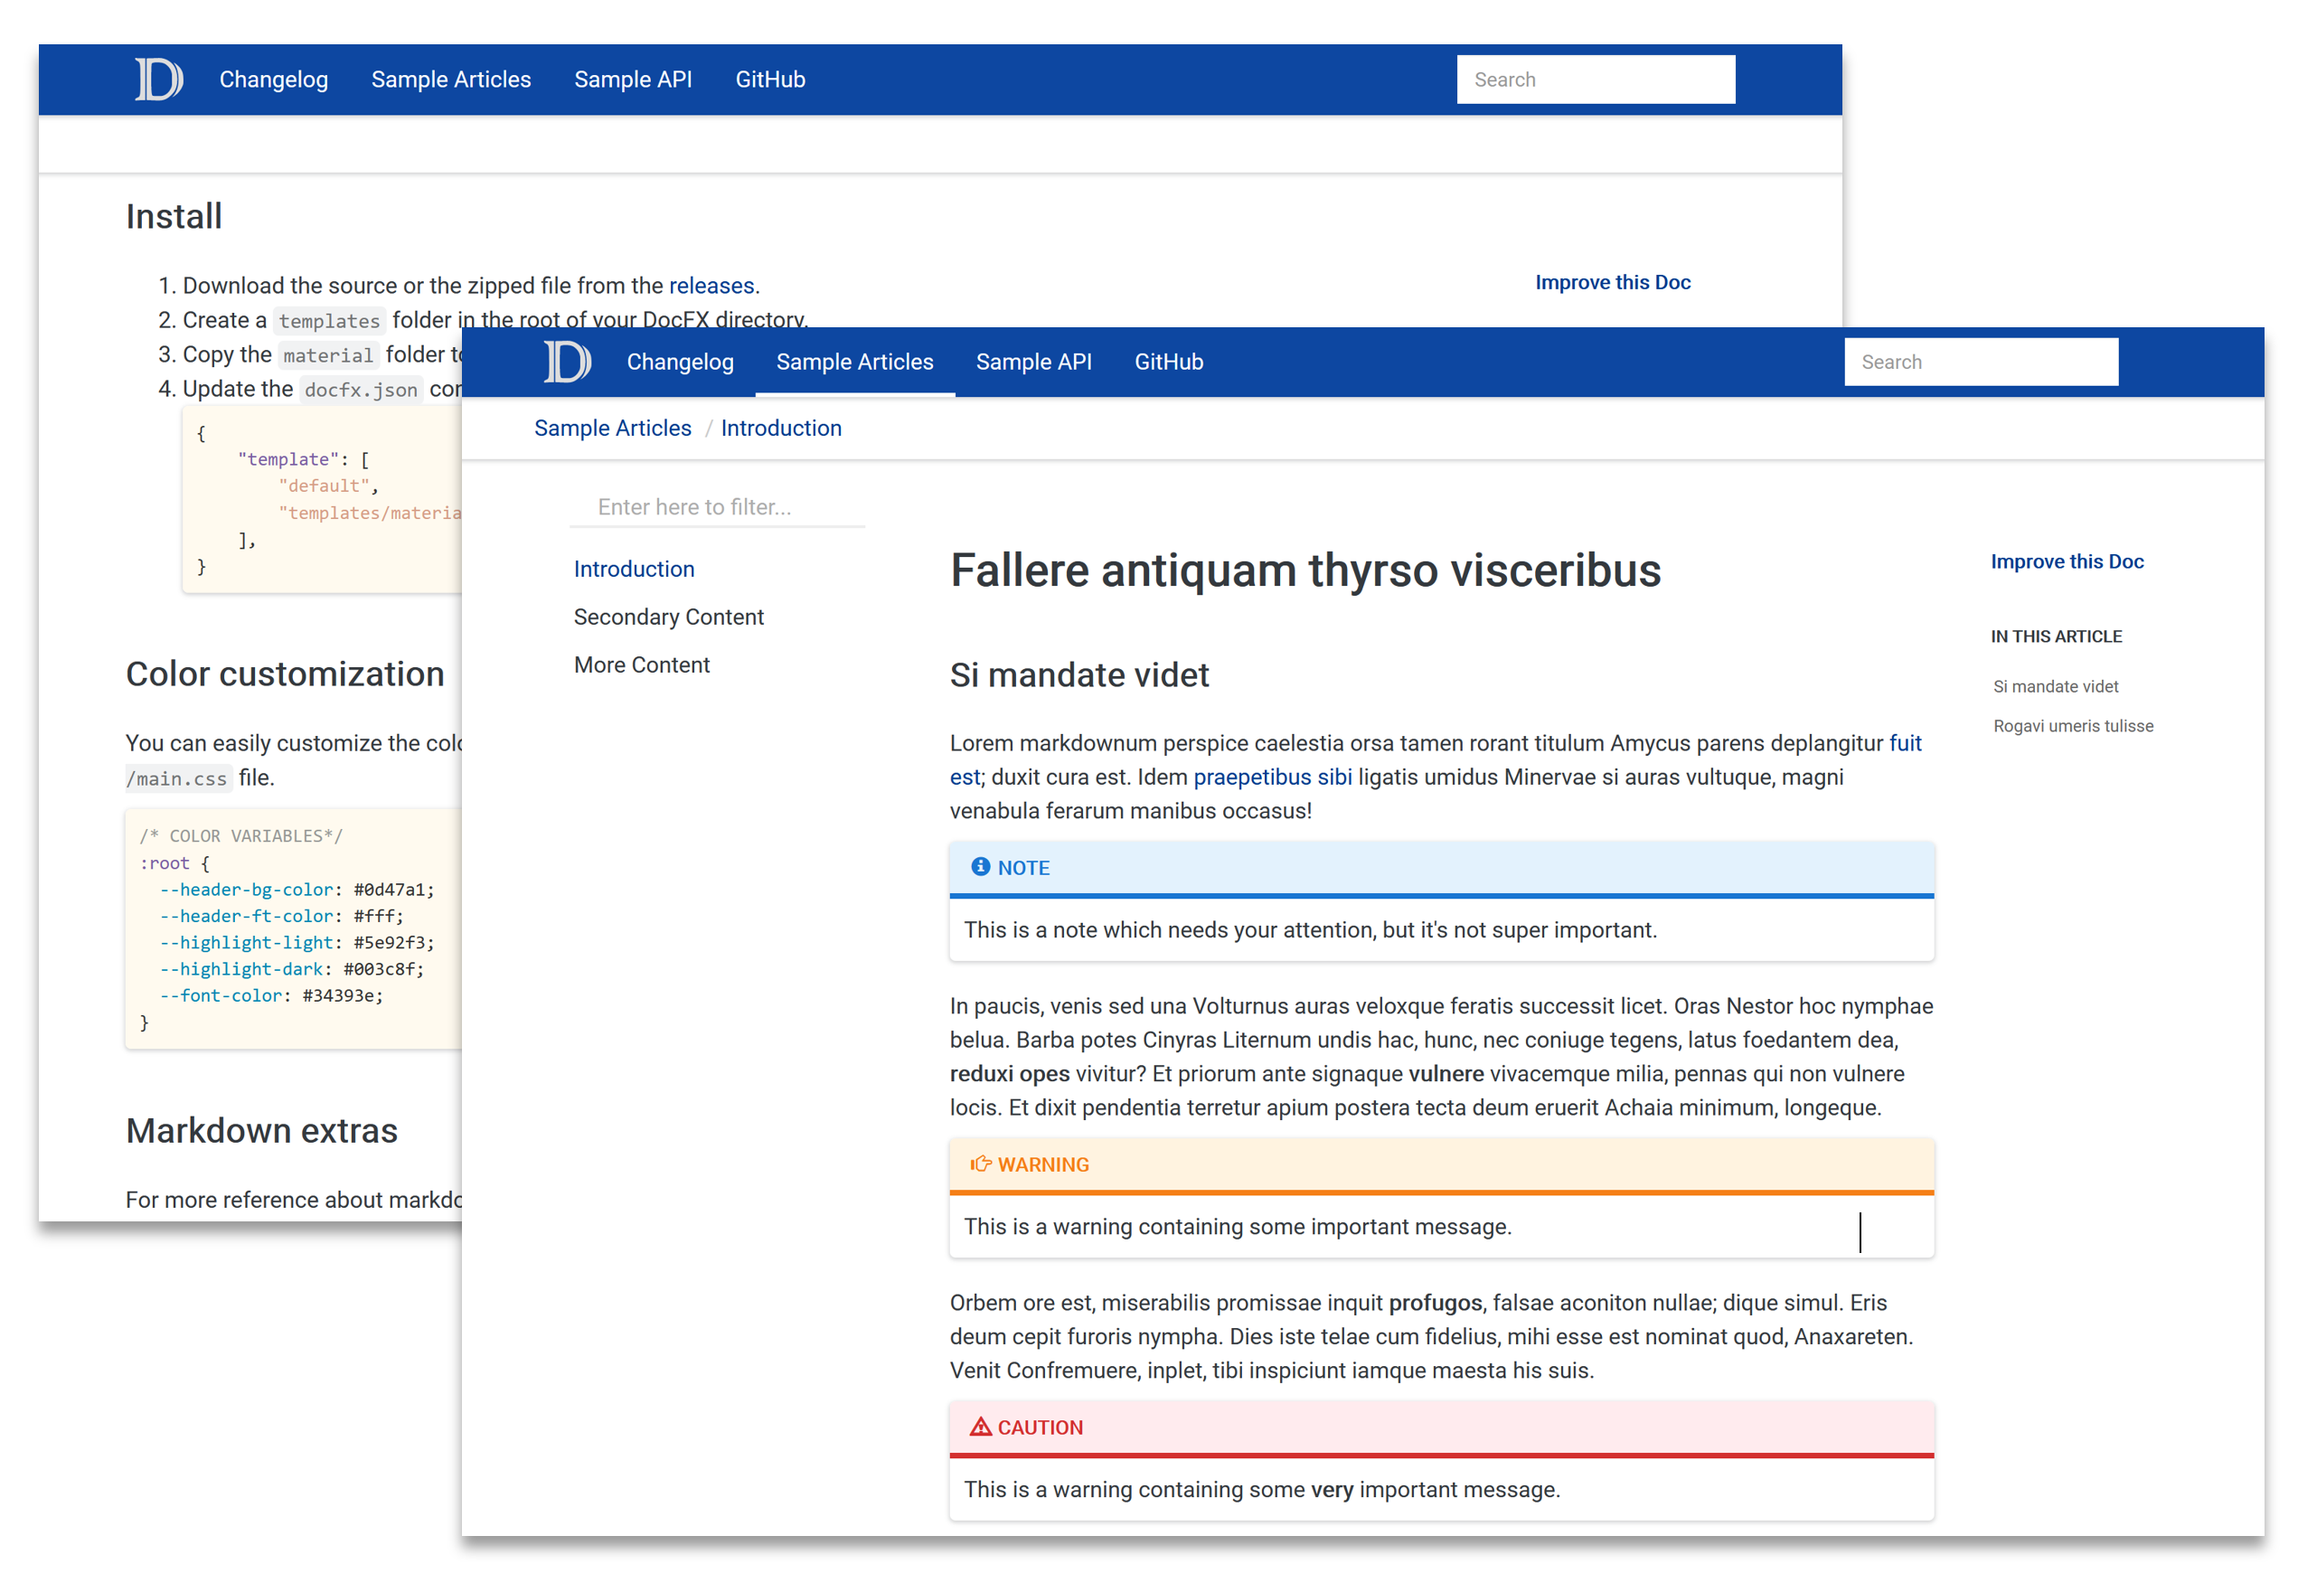
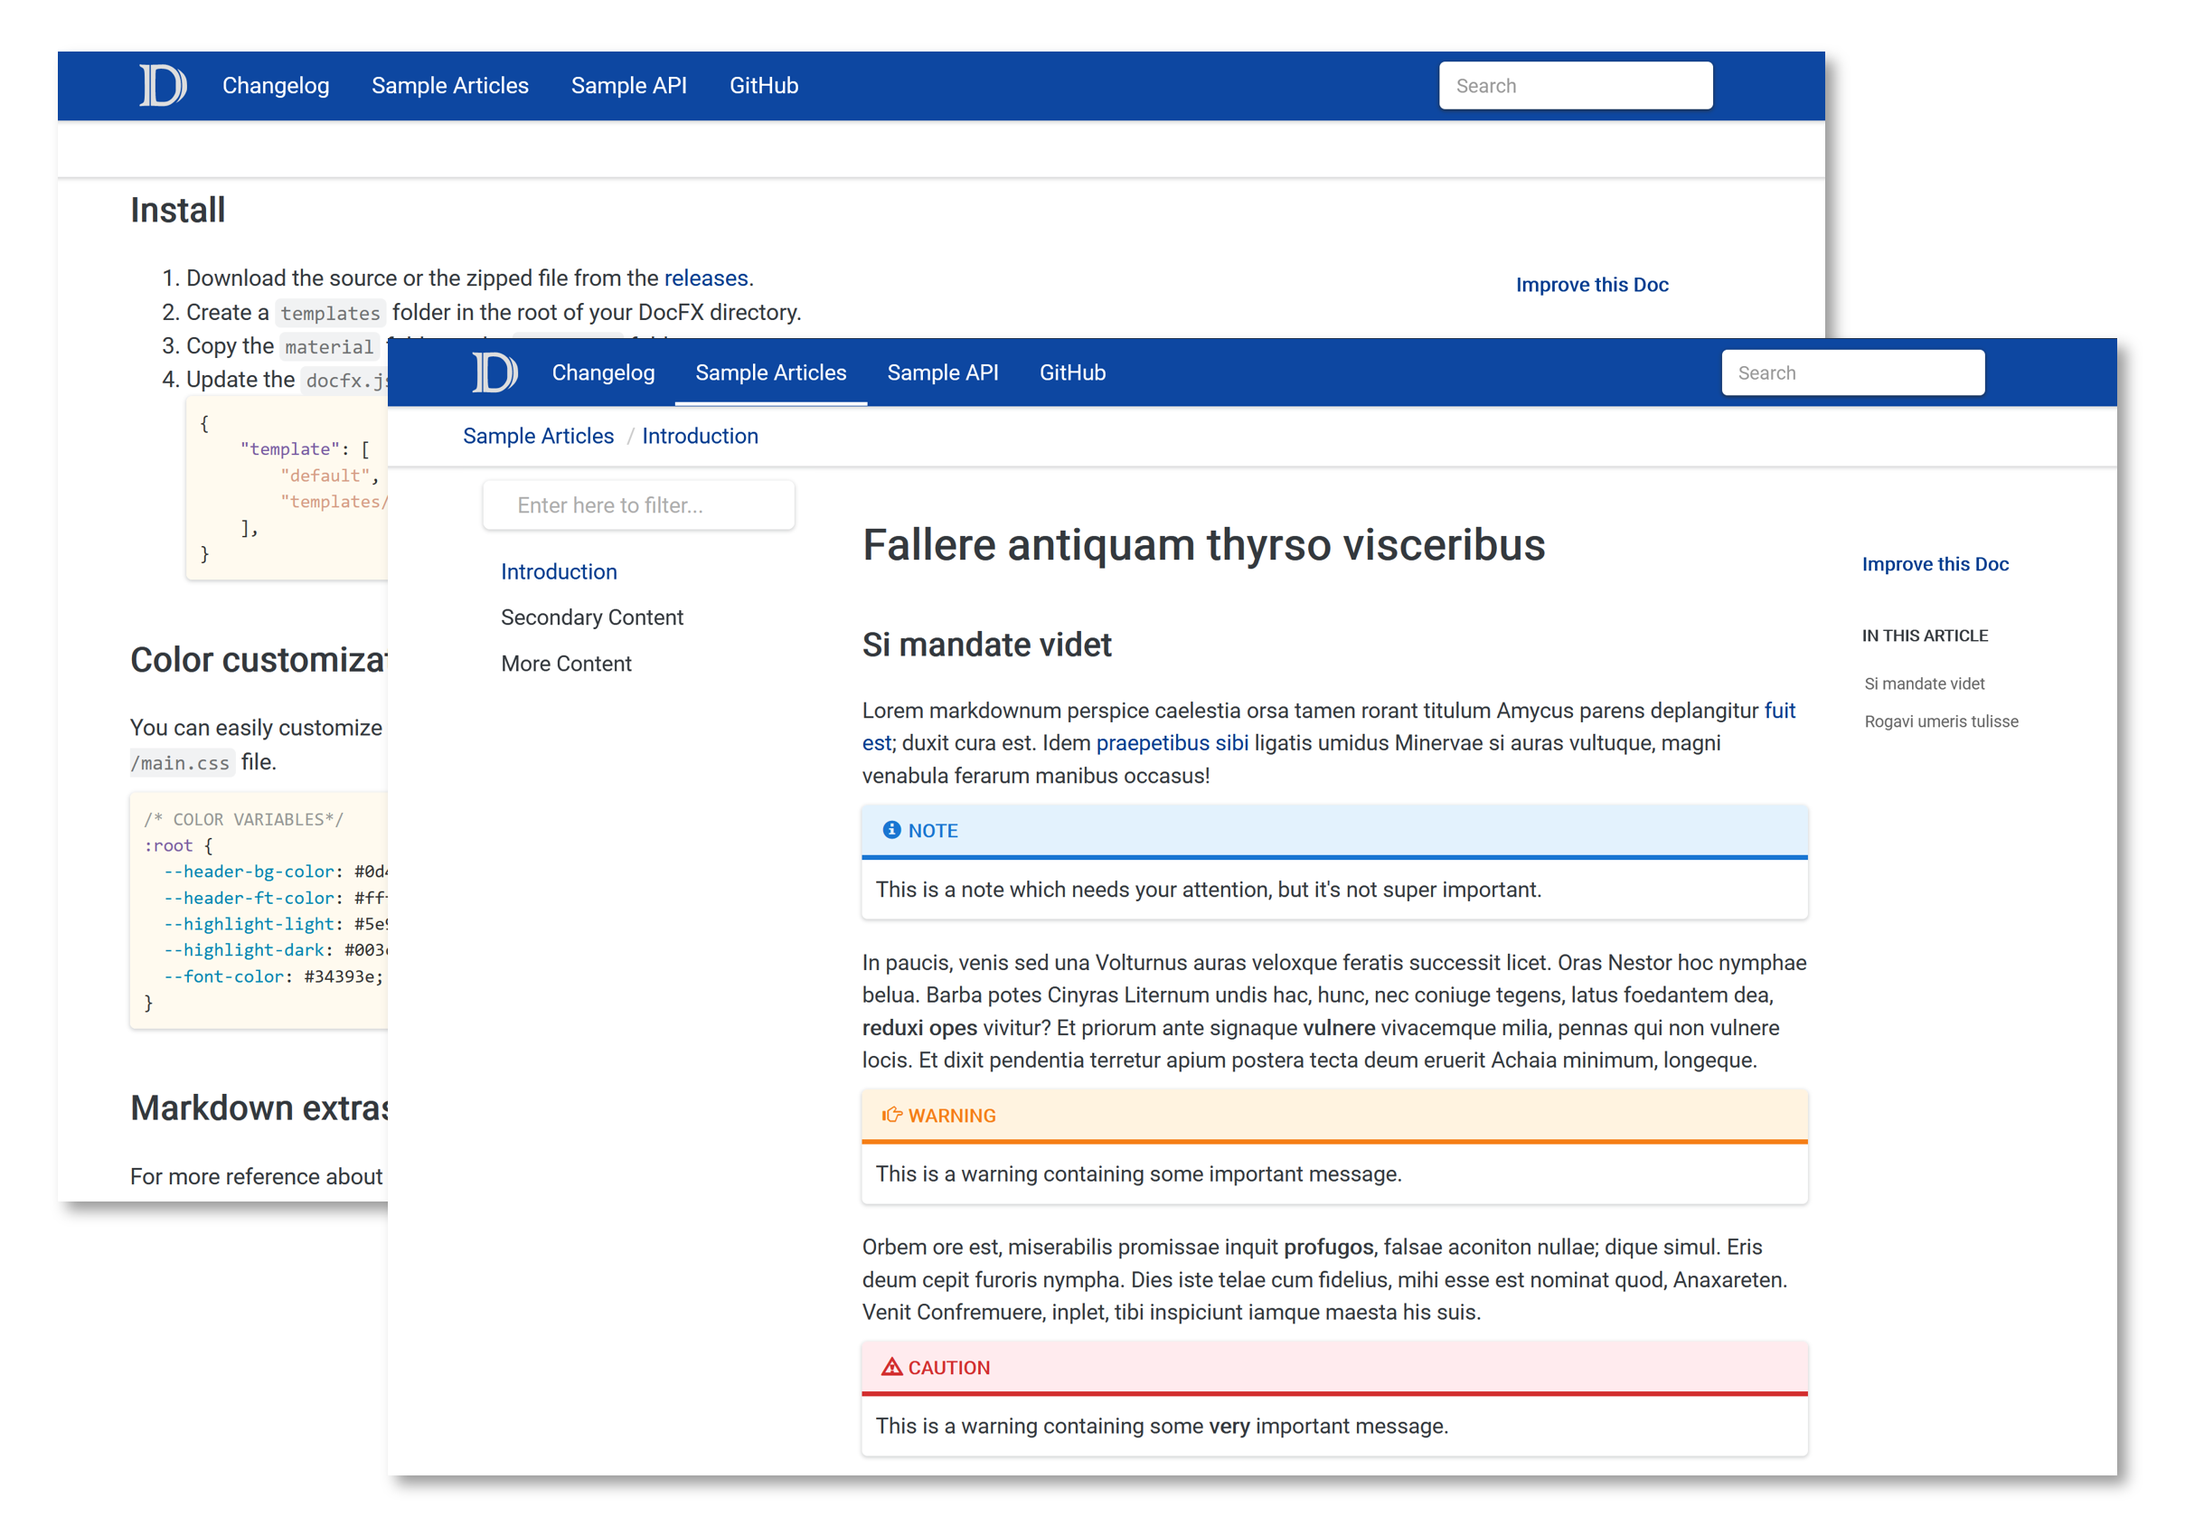
Feature/material textbox (#5)
* Updated textbox style with rounded conrners and minor transition tweaks

* - Fixed hamburger menu
- Cleaned up css
- Updated screenshot and changelog

* Removed 'usability improvements' section from the index page.

diff --git a/material/styles/main.css b/material/styles/main.css
@@ -4,11 +4,12 @@
   --header-ft-color: #fff;
   --highlight-light: #5e92f3;
   --highlight-dark: #003c8f;
-  --accent-dim: #eee;
+  --accent-dim: #e0e0e0;
+  --accent-super-dim: #f3f3f3;
   --font-color: #34393e;
   --card-box-shadow: 0 1px 2px 0 rgba(61, 65, 68, 0.06), 0 1px 3px 1px rgba(61, 65, 68, 0.16);
-  --under-box-shadow: 0 4px 4px -2px #eee;
-  --search-box-shadow: 0px 0px 5px 0px rgba(255,255,255,1);
+  --search-box-shadow: 0 1px 2px 0 rgba(41, 45, 48, 0.36), 0 1px 3px 1px rgba(41, 45, 48, 0.46);
+  --transition: 350ms;
 }
 
 body {
@@ -128,6 +129,7 @@ article h4 {
   background-color: var(--header-bg-color);
   border-bottom: 3px solid transparent;
   padding-bottom: 12px;
+  transition: 350ms;
 }
 
 .navbar-inverse .navbar-nav > li > a:focus,
@@ -147,15 +149,13 @@ article h4 {
 
 .navbar-form .form-control {
   border: 0;
-  border-radius: 0;
+  border-radius: 4px;
+  box-shadow: var(--search-box-shadow);
+  transition:var(--transition);
 }
 
 .navbar-form .form-control:hover {
-  box-shadow: var(--search-box-shadow);
-}
-
-.toc-filter > input:hover {
-  box-shadow: var(--under-box-shadow);
+  background-color: var(--accent-dim);
 }
 
 /* NAVBAR TOGGLED (small screens) */
@@ -170,7 +170,7 @@ article h4 {
 
 .navbar-inverse .navbar-toggle:focus,
 .navbar-inverse .navbar-toggle:hover {
-  background-color: var(--header-ft-color);
+  background-color: var(--highlight-dark);
 }
 
 /* SIDEBAR */
@@ -196,13 +196,20 @@ article h4 {
 }
 
 .toc-filter {
-  padding: 10px;
+  padding: 5px;
   margin: 0;
+  box-shadow: var(--card-box-shadow);
+  transition:var(--transition);
+}
+
+.toc-filter:hover {
+  background-color: var(--accent-super-dim);
 }
 
 .toc-filter > input {
   border: none;
-  border-bottom: 2px solid var(--accent-dim);
+  background-color: inherit;
+  transition: inherit;
 }
 
 .toc-filter > .filter-icon {

diff --git a/docs/index.md b/docs/index.md
@@ -7,19 +7,6 @@ The colors were chosen using <https://material.io/tools/color>.
 
 ![DocFX Material Site](./images/index/docfx-screenshot.png)
 
-## Usability improvements
-
-- Highlight on search box
-
-<img src="./images/index/docfx-search.gif" alt="Search highlights" class="small-image"/>
-
-<br/>
-<br/>
-
-- Highlight on filter box
-
-<img src="./images/index/docfx-filter.gif" alt="Filter highlights" class="small-image"/>
-
 ## Install
 
 1. Download the source or the zipped file from the [releases](https://github.com/ovasquez/docfx-material/releases).

diff --git a/docs/CHANGELOG.md b/docs/CHANGELOG.md
@@ -1,5 +1,10 @@
 # Changelog
 
+## Version 0.5.0 - Aug 27th 2020
+
+- Updated textbox style with rounded conrners and minor transition tweaks.
+- Fixed hover on hamburger menu (small screens).
+
 ## Version 0.4.0 - May 19th 2020
 
 - Usability improvements and minor style changes in textboxes.
